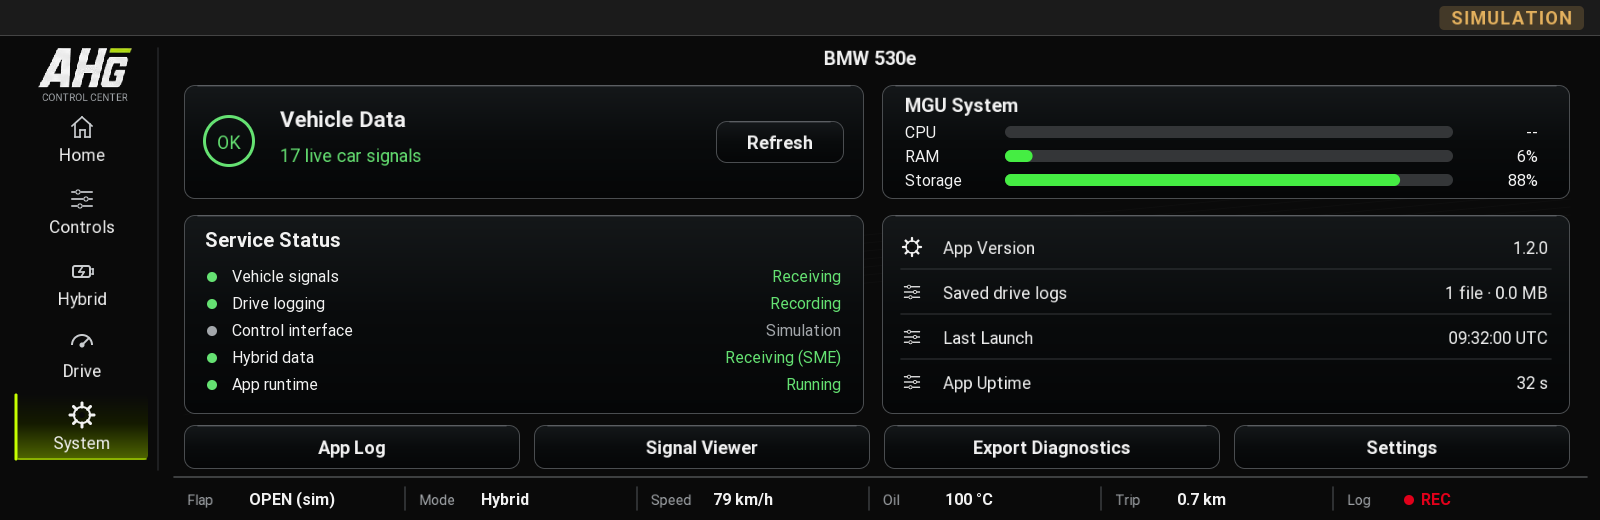
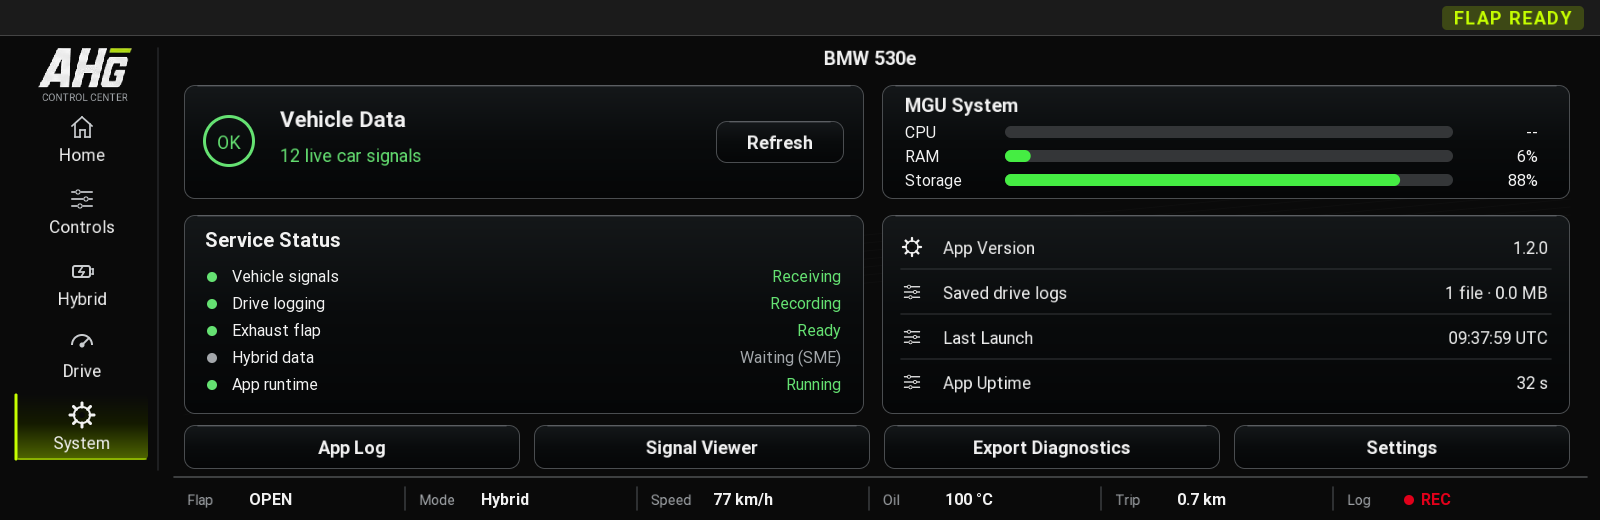
Car build always ready: no Arm button or demo mode on the head unit
- Controls arm themselves at startup (read-only DME detection), retry by themselves
- Hiding the app keeps the flap state; quitting hands back to the DME
- Demo data and simulation hidden on the car; simulation is the desktop emulator
- ASD/start-stop switches replaced by Hold Flap Position (default on) and Close Guard
- Tests: 46 passing

Claude-Session: https://claude.ai/code/session_01Nnadr2wnsB46edB4HiEaQo

diff --git a/apps/ahg_control_center/reference-view.js b/apps/ahg_control_center/reference-view.js
@@ -37,7 +37,7 @@ function header(cv,a){
     cv.line(174,477,1587,477,1,'#717477');
     const flap=a.controls.getState('exhaust'),log=logState(a);
     const entries=[
-        ['Flap',flap.source==='simulation'?(flap.actual||'--')+' (sim)':!a.controls.armed?'Not armed':flap.readback||'Unknown'],
+        ['Flap',flap.source==='simulation'?(flap.actual||'--')+' (sim)':!a.controls.ready?'Not detected':flap.readback||'Auto'],
         ['Mode',field(a,'drive_mode')],
         ['Speed',withUnit(a,'speed',0,'km/h')],
         ['Oil',withUnit(a,'oil',0,'°C')],
@@ -98,7 +98,7 @@ function smoke(cv,ox,oy,dir,reach,amt,ts,seed){
     }
 }
 function controls(cv,a,dt){
-    const control=a.controls,sim=control.simulated,flap=control.getState('exhaust'),asd=control.getState('asd'),ss=control.getState('startStop'),ambient=control.getState('ambientHardware');
+    const control=a.controls,sim=control.simulated,flap=control.getState('exhaust'),ambient=control.getState('ambientHardware');
     // Exhaust flap hero: the photo fills the right of a black card, controls sit on the dark left.
     cv.roundRect(184,85,1386,215,12,'#2f3337');cv.roundRect(185,86,1384,213,11,'#000000'); // photo edge is pure black: no seam
     Art.draw(cv,'exhaust',748,86,820,213); // pre-cropped to exactly this box (art/exhaust-crop.png)
@@ -115,28 +115,28 @@ function controls(cv,a,dt){
     smoke(cv,1343,236,-1,150,a.smoke.l,ts,0);smoke(cv,1431,236,0.45,70,a.smoke.r,ts,0.37);
     cv.line(198,86,1556,86,1,'#b3b8bd44');
     text(cv,'EXHAUST',212,122,13,C.muted);bold(cv,'Exhaust Flap',212,154,28);
-    chip(cv,sim?'SIMULATION':control.armed?'ARMED':'DISARMED',420,132,sim?C.amber:control.armed?C.red:'#9aa0a6');
+    const ready=sim||control.ready;chip(cv,sim?'SIMULATION':ready?'READY':control.busy?'DETECTING':'NOT DETECTED',420,132,sim?C.amber:ready?C.accent:C.amber);
     const modes=[['Auto','OEM'],['Open','OPEN'],['Closed','CLOSED']].map((s)=>({label:s[0],key:'flap-'+s[1],action:()=>a.control('exhaust',s[1]),
         selected:flap.desired===s[1]&&flap.acknowledged===true,pending:flap.desired===s[1]&&flap.pending}));
     segmented(cv,modes,212,178,540,54);
-    const flapLine=flap.error||(sim?'Simulation · flap '+(flap.actual==='OEM'?'auto':flap.actual?flap.actual.toLowerCase():'not set')+'. Choose Vehicle mode in Settings to drive the real flap.':
-        !control.armed?'Arm the session, then pick a mode.':flap.pending?'Sending request...':flap.acknowledged==null?'Armed - tap a mode or use the controller.':
+    const flapLine=flap.error||(sim?'Desktop simulation · flap '+(flap.actual==='OEM'?'auto':flap.actual?flap.actual.toLowerCase():'not set')+'. Nothing is sent to a car.':
+        !control.ready?(control.busy?'Looking for the exhaust flap on the DME...':'Waiting for the DME - starts by itself with the ignition on.'):flap.pending?'Sending...':flap.acknowledged==null?'Ready - tap a mode or use the controller.':
         'DME '+(flap.acknowledged?'accepted':'did not accept')+' · ECU read-back: '+(flap.readback||'Unknown'));
     wrap(flapLine,92,2).forEach((l,i)=>text(cv,l,212,259+i*19,15,flap.error?C.amber:'#c9cdd1'));
-    button(cv,sim?'Change mode':control.busy?'Detecting...':control.armed?'Disarm':'Arm session',1388,100,168,40,sim?()=>a.settings():()=>a.armControls(),'arm-session',control.armed);
-    if(!sim&&control.armed)button(cv,'Recheck',1388,148,168,40,()=>a.recheckControls(),'recheck-link');
-    // ASD + start-stop: only switchable in simulation; on a stock car they are shown as unavailable.
+    if(!sim&&!control.ready&&!control.busy)button(cv,'Retry',1388,100,168,40,()=>a.recheckControls(),'recheck-link');
+    // Hold + Close guard: real settings of the flap automation (ec_auto.js).
+    const hold=a.ctx.settings.get('hold')!=='off',limit=a.ctx.settings.get('closeLimit');
     card(cv,184,312,680,60);card(cv,882,312,688,60);
-    for(let i=0;i<7;i++){const h=[8,16,26,18,30,14,8][i];cv.line(212+i*6,342-h/2*0.8,212+i*6,342+h/2*0.8,3,C.text);}
-    bold(cv,'Active Sound',268,337,20);
-    text(cv,sim?'Simulation: '+(asd.actual?'On':'Off'):'Not available on stock software',268,361,14,C.muted);
-    toggle(cv,755,327,sim&&asd.actual,sim);if(sim)cv.target(744,314,100,56,()=>a.control('asd',!asd.desired),'asd-toggle',10);
-    cv.arc(925,342,15,18,0,360,C.text);bold(cv,'A',925,348,16,C.text,'center');bold(cv,'Start-Stop Memory',966,337,20);
-    text(cv,sim?'Simulation: '+(ss.actual?'Remember':'Off'):'Not available on stock software',966,361,14,C.muted);
-    toggle(cv,1467,327,sim&&ss.actual,sim);if(sim)cv.target(1456,314,100,56,()=>a.control('startStop',!ss.desired),'startstop-toggle',10);
+    cv.arc(225,342,13,16,40,320,C.text);cv.fill([[236,328],[245,336],[233,340]],C.text);
+    bold(cv,'Hold Flap Position',268,337,20);
+    text(cv,hold?'Re-sends Open / Closed every 15 s so the DME keeps it':'Off - the DME returns to auto after about 20 s',268,361,14,C.muted);
+    toggle(cv,755,327,hold,true);cv.target(744,314,100,56,()=>a.cycleSetting('hold'),'hold-toggle',10);
+    cv.arc(925,342,15,18,-120,120,C.text);cv.line(925,342,935,333,2,C.text);cv.circle(925,342,3,C.text);
+    bold(cv,'Close Guard',966,337,20);text(cv,'Closed hands back to auto above this engine speed',966,361,14,C.muted);
+    button(cv,limit+' rpm',1404,322,146,40,()=>a.cycleSetting('closeLimit'),'close-guard');
     // Ambient lighting: on the car the highlighted preset is the one the car confirmed.
     card(cv,184,383,1386,86);icon(cv,'system',208,411,29,C.text);bold(cv,'Ambient Lighting',258,418,21);
-    const ambientLine=sim?'Simulation · slot '+(ambient.actual||'--'):ambient.error?ambient.error:ambient.pending?'Sending slot '+ambient.desired+'...':ambient.actual?'Car reports slot '+ambient.actual:control.armed?'Waiting for car colour status':'Arm session to change colour';
+    const ambientLine=sim?'Simulation · slot '+(ambient.actual||'--'):ambient.error?ambient.error:ambient.pending?'Sending slot '+ambient.desired+'...':ambient.actual?'Car reports slot '+ambient.actual:'Waiting for car colour status';
     text(cv,fit(ambientLine,36),258,446,15,ambient.error?C.amber:C.muted);
     const swatch={comfort:C.blue,sport:C.red,night:'#a77be0',custom:'#e3b55c'};
     ['comfort','sport','night','custom'].forEach((p,i)=>{
@@ -240,7 +240,7 @@ function system(cv,a){
         bold(cv,'Service Status',205,247,20);
         const lst=logState(a);
         const rows=[['Vehicle signals',a.demo||a.emulator?'Demo':live?'Receiving':'Waiting',!!live],['Drive logging',lst.state==='rec'?'Recording':lst.state==='waiting'?'Ready':lst.state==='off'?'Off':'Error',lst.state==='rec'],
-            ['Control interface',a.controls.simulated?'Simulation':a.controls.armed?'Armed':'Disarmed',a.controls.armed],['Hybrid data',a.demo?'Demo':lv(a,'hv_soc')!=null||lv(a,'electric_kw')!=null?'Receiving (SME)':'Waiting (SME)',!a.demo&&(lv(a,'hv_soc')!=null||lv(a,'electric_kw')!=null)],['App runtime','Running',true]];
+            ['Exhaust flap',a.controls.simulated?'Simulation':a.controls.ready?'Ready':a.controls.busy?'Detecting':'Not detected',!a.controls.simulated&&a.controls.ready],['Hybrid data',a.demo?'Demo':lv(a,'hv_soc')!=null||lv(a,'electric_kw')!=null?'Receiving (SME)':'Waiting (SME)',!a.demo&&(lv(a,'hv_soc')!=null||lv(a,'electric_kw')!=null)],['App runtime','Running',true]];
         rows.forEach((r,i)=>{const y=282+i*27;cv.circle(212,y-5,5,r[2]?C.green:C.muted);text(cv,r[0],232,y,16,C.text);text(cv,r[1],841,y,16,r[2]?C.green:C.muted,'right');});
     }
     const storage=a.driveLog?a.driveLog.storage():{count:0,mb:0};

diff --git a/apps/ahg_control_center/controls.js b/apps/ahg_control_center/controls.js
@@ -21,8 +21,10 @@ class Controls {
     capabilities(){return {exhaust:this.simulated||this.ready,asd:this.simulated,startStop:this.simulated,ambientHardware:this.simulated||!!this.light};}
     async start(){
         this.mode=this.simulated?'simulation':'vehicle';this.reset();
-        // No diagnostic link or capability probe until a session Arm press.
         this.timer=setInterval(()=>{if(this.armed&&!this.busy)this.auto.tick().then(()=>this.sync()).catch((e)=>this.ctx.log.warn(String(e)));},250);
+        // In the car the controls are always ready: arm at startup. Arming only detects the DME (read-only
+        // 0x22 probes) and subscribes the colour status; nothing is commanded until a mode is pressed.
+        if(!this.simulated)await this.arm().catch((e)=>this.ctx.log.warn('auto-arm: '+String(e.message||e)));
     }
     enqueue(fn){const p=this.queue.then(fn);this.queue=p.catch(()=>{});return p;}
     watchLink(){
@@ -31,7 +33,7 @@ class Controls {
         this.watchedLink=link;
         link.onAvailable((on)=>{
             if(!this.armed||this.stopped||link!==this.controller.link)return;
-            if(!on){this.ready=false;this.detectionError='Diagnostic link offline; select a mode again after reconnect';this.auto._stop();this.auto.desired='OEM';this.auto.sent='OEM';this.auto.source='start';this.auto.paused=false;this.sync();return;}
+            if(!on){this.ready=false;this.detectionError='Diagnostic link lost - pick the mode again once it is back';this.auto._stop();this.auto.desired='OEM';this.auto.sent='OEM';this.auto.source='start';this.auto.paused=false;this.sync();return;}
             // Re-detection is read-only. Never replay an earlier Open/Close on reconnect.
             this.enqueue(async()=>{if(this.armed&&!this.stopped){await this.detect();this.sync();}}).catch((e)=>this.ctx.log.warn('DME reconnect: '+String(e)));
         });
@@ -45,7 +47,7 @@ class Controls {
             this.ready=this.controller.real&&!this.controller.blocked&&this.controller.link.available!==false;
             const active=this.controller.link;
             this.detectionError=this.ready?null:active&&active.available===false?
-                'Diagnostic link unavailable; use Recheck after ignition is ready':this.controller.pickReason||'No compatible MG1 flap detected';
+                'Diagnostic link not up yet - connects by itself with the ignition on':this.controller.pickReason||'No compatible MG1 flap detected';
             this.ctx.log.info('AHG flap detection: '+(this.ready?'ready':this.detectionError));
         }catch(e){this.ready=false;this.detectionError='DME detection failed: '+String(e.message||e);this.states.exhaust.error=this.detectionError;throw e;}
         finally{this.busy=false;}
@@ -61,14 +63,17 @@ class Controls {
         s.readback=v.confirmed==='UNKNOWN'?null:v.confirmed;s.actual=null;s.source='vehicle';
         const note=this.auto.note();s.error=this.detectionError||(!this.ready?this.controller.pickReason||'Flap not ready':null)||v.error||(note&&note.warn?note.text:null)||(v.accepted===false?'DME rejected or did not answer; see app logs':null);
     }
-    async arm(){return this.enqueue(async()=>{
+    arm(){return this.enqueue(()=>this._arm());}
+    async _arm(){
         if(this.stopped)throw new Error('Controls stopped');
-        if(this.simulated)throw new Error('Choose vehicle control mode and turn demo off on the car to arm');
+        if(this.simulated)throw new Error('Simulation runs on the desktop emulator only');
         if(this.armed)return;
         this.busy=true;
         try{
             this.mode='vehicle';this.reset();this.armed=true;
-            await this.detect();
+            // A DME that isn't reachable yet (ignition, TASU starting) is not an error here: detection runs again
+            // when the link comes up and on the next press. The controls stay armed.
+            try{await this.detect();}catch(e){this.ctx.log.warn('DME detection: '+String(e.message||e));}
             this.auto.desired='OEM';this.auto.sent='OEM';
             if(!this.sub){
                 this.sub=await this.ctx.signals.watch(LIGHT,'1',{statusAmbientLightInteriorColour:(v)=>{
@@ -81,8 +86,8 @@ class Controls {
                 this.light=this.sub.proxy||null;
             }
             this.sync();
-        }catch(e){this.armed=false;throw e;}finally{this.busy=false;}
-    });}
+        }catch(e){this.ctx.log.warn('arm: '+String(e.message||e));}finally{this.busy=false;}
+    }
     async disarm(){return this.enqueue(async()=>{
         this.generation++;clearTimeout(this.colourTimer);this.auto._stop();
         try{if(this.armed&&this.ready){await this.auto.press('OEM');this.sync();}}
@@ -95,7 +100,7 @@ class Controls {
     });}
     async settingsChanged(key){
         if(key==='controlMode'||key==='demo'){
-            await this.disarm();this.mode=this.simulated?'simulation':'vehicle';this.reset();
+            await this.disarm();this.mode=this.simulated?'simulation':'vehicle';this.reset();if(!this.simulated)await this.arm();
         }else if(key==='hold'||key==='closeLimit')await this.auto.settingsChanged(key);
     }
     async request(id,desired){return this.enqueue(async()=>{
@@ -113,7 +118,7 @@ class Controls {
         if(id==='asd'||id==='startStop'){
             s.supported=false;s.error=id==='asd'?'Stock ASD write unavailable; Engine Config ASD requires bootmod3':'No verified stock start-stop memory write in the referenced SDK';throw new Error(s.error);
         }
-        if(!this.armed){s.error='Arm vehicle controls for this session first';throw new Error(s.error);}
+        if(!this.armed)await this._arm();
         if(id==='exhaust'){
             if(!this.ready){await this.detect();if(!this.ready){s.error=this.detectionError;throw new Error(s.error);}}
             s.pending=true;await this.auto.press(desired);this.sync();return this.getState(id);

diff --git a/apps/ahg_control_center/main.js b/apps/ahg_control_center/main.js
@@ -21,8 +21,8 @@ function start(ctx) {
     const NAMES={exhaust:'Exhaust flap',asd:'Active Sound',startStop:'Start-stop memory',ambientHardware:'Ambient slot'};
     const said=(v)=>v===true?'on':v===false?'off':v==='OEM'?'auto':String(v).toLowerCase();
     app.control=(id,value)=>app.controls.request(id,value).then((s)=>app.notice(s.source==='simulation'?'Simulation: '+NAMES[id]+' '+said(value):s.error||NAMES[id]+' '+said(value)+' sent - waiting for ECU read-back')).catch((e)=>app.notice(e.message));
-    app.armControls=()=>{const p=app.controls.armed?app.controls.disarm():app.controls.arm();p.then(()=>app.notice(app.controls.armed?'Session armed; press a control to send':'Disarmed; OEM hand-back requested')).catch((e)=>app.notice(e.message));};
-    app.recheckControls=()=>app.controls.recheck().then((ready)=>app.notice(ready?'MG1 flap ready; select Open/Closed/OEM':app.controls.detectionError)).catch((e)=>app.notice(e.message));
+    app.recheckControls=()=>app.controls.recheck().then((ready)=>app.notice(ready?'Exhaust flap ready':app.controls.detectionError)).catch((e)=>app.notice(e.message));
+    app.cycleSetting=(key)=>{const it=(ctx.spec.settings||[]).find((x)=>x.key===key);if(!it)return;const list=it.options.map((o)=>o[0]);ctx.settings.set(key,list[(list.indexOf(ctx.settings.get(key))+1)%list.length]);};
     app.navigate=(i)=>{app.page=M.clamp(i,0,IDS.length-1);ctx.settings.set('page',IDS[app.page]);};
     // Only remember the preset once the colour request went through (or simulation accepted it).
     app.setProfile=(p)=>{const slot=Number(ctx.settings.get('slot_'+p))||1;
@@ -51,7 +51,8 @@ function start(ctx) {
         if(key==='logHz')sampler();if(key==='page')app.page=Math.max(0,IDS.indexOf(ctx.settings.get('page')));app.controls.settingsChanged(key).catch((e)=>app.notice(e.message));});
     ctx.ui.onClick('BTN_PAGE',()=>app.navigate((app.page+1)%IDS.length));ctx.ui.onClick('BTN_PREV',()=>app.navigate((app.page+IDS.length-1)%IDS.length));
     ctx.onTab((i)=>app.navigate(i));
-    if(ctx.ui.onVisible)ctx.ui.onVisible((name,on)=>{if(name==='MAIN'&&app.provider){app.provider.setVisible(on);if(!on)app.controls.disarm().catch((e)=>app.notice(e.message));}});
+    // Hiding the app (navigation, a call) keeps the flap where you put it; only quitting hands it back to the DME.
+    if(ctx.ui.onVisible)ctx.ui.onVisible((name,on)=>{if(name==='MAIN'&&app.provider)app.provider.setVisible(on);});
     provider();
     app.controls.start();
     // Trip and logging run on timers, not the draw loop, so they keep going
@@ -65,7 +66,7 @@ function start(ctx) {
     const loop=ctx.loop('MAIN',4,async()=>{
         const now=Date.now(),dt=M.clamp((now-previous)/1000,0,0.5);previous=now;app.elapsed=(now-app.diagnostics.started)/1000;
         T.setAccent(ctx.settings.get('accent'));const cv=ctx.canvas(1600,520);cv.clear(T.C.bg);
-        G.frame(cv,T.kitTheme(KIT_RED),[],-1,[{text:app.controls.simulated?'SIMULATION':app.controls.armed?'ARMED':'DISARMED',color:app.controls.armed?T.C.red:T.C.amber}]);
+        G.frame(cv,T.kitTheme(KIT_RED),[],-1,[{text:app.controls.simulated?'SIMULATION':app.controls.ready?'FLAP READY':app.controls.busy?'CONNECTING':'NO FLAP',color:app.controls.simulated?T.C.amber:app.controls.ready?T.C.accent:T.C.amber}]);
         V.draw(cv,app,dt);await ctx.ui.image('MAIN_GFX',cv);
     });
     const stop=async()=>{if(app.hybrid)app.hybrid.stop();clearInterval(logTimer);clearInterval(tripTimer);app.driveLog.stop();app.provider.stop();loop.stop();app.gauges.clear();await app.controls.stop();};

diff --git a/test/render.test.js b/test/render.test.js
@@ -19,13 +19,13 @@ const spec=require('../apps/ahg_control_center/app.json');
 const values=spec.settings.reduce((o,s)=>{o[s.key]=s.default;return o;},{});
 function fixture(demo){const store=new M.SignalStore();if(demo)new MockProvider(store,10).sample(2);
     return {store,demo,emulator:true,page:0,elapsed:2,systemMode:'overview',signalOffset:0,trip:new Trip(),gauges:new Gauge(),ctx:{settings:{get:(k)=>values[k]}},
-        controls:{simulated:true,armed:false,getState:(id)=>({source:'simulation',actual:null})},control:()=>{},armControls:()=>{},
+        controls:{simulated:true,armed:false,ready:false,getState:(id)=>({source:'simulation',actual:null})},control:()=>{},armControls:()=>{},
         diagnostics:{started:Date.now(),entries:['DEMO provider'],update:()=>({cpu:10,ram:40,storage:30})},accent:()=> '#d51e28',navigate:()=>{},setProfile:()=>{},refresh:()=>{},resetTrip:()=>{},toggleDisplay:()=>{},settings:()=>{},exportReport:()=>{}};}
 for(const demo of [true,false])for(let page=0;page<5;page++)test('SDK records page '+page+' / '+(demo?'demo':'no data')+' with safe input targets',()=>{
     const state=fixture(demo);state.page=page;const cv=new Recorder(1600,520);V.draw(cv,state,1/60);
     assert.ok(cv.words().length>100);assert.ok(cv.words().byteLength<200000);
     for(const t of cv.targets){assert.ok(t.x>=12&&t.y>=38&&t.x+t.w<=1588&&t.y+t.h<=477,JSON.stringify(t));}
-    if(page===1){['flap-OPEN','flap-OEM','flap-CLOSED','asd-toggle','startstop-toggle','arm-session'].forEach((key)=>assert.ok(cv.targets.some((t)=>t.key===key),key));}state.gauges.clear();
+    if(page===1){['flap-OPEN','flap-OEM','flap-CLOSED','hold-toggle','close-guard'].forEach((key)=>assert.ok(cv.targets.some((t)=>t.key===key),key));}state.gauges.clear();
 });
 test('gauge caches static geometry, clamps the needle and removes it for stale data',()=>{
     const g=new Gauge(),spec=M.DEFINITIONS.oil,cv=new Recorder(1600,520),r={value:900,quality:'live',source:'mgu'};
@@ -37,7 +37,7 @@ test('gauge caches static geometry, clamps the needle and removes it for stale d
     g.draw(cv,'oil',spec,Object.assign({},r,{quality:'stale'}),300,250,170,0.1);assert.equal(g.needle.oil,undefined);g.clear();
 });
 test('vehicle controls expose a recheck action and retain a readable blocked reason',()=>{
-    const state=fixture(false);state.page=1;state.controls.simulated=false;state.controls.armed=true;
+    const state=fixture(false);state.page=1;state.controls.simulated=false;state.controls.armed=true;state.controls.ready=false;
     state.controls.getState=(id)=>({source:'vehicle',actual:null,error:id==='exhaust'?'Diagnostic link unavailable':null});
     state.recheckControls=()=>{};
     const cv=new Recorder(1600,520);V.draw(cv,state,1/60);

diff --git a/test/controls.test.js b/test/controls.test.js
@@ -13,16 +13,21 @@ function fixture(opts){
     control=new Controls(ctx,store,{controller,emulator:!!opts.emulator,demo:()=>!!opts.demo});
     return {control,controller,commands,writes,values,store,availability:(on)=>{link.available=on;listeners.forEach((fn)=>fn(on));},status:(n)=>watcher.statusAmbientLightInteriorColour({statusMenuAmbientePanoramicRoofInteriorLighting:'FARBAUSWAHL_'+n}),advance:(ms)=>{now+=ms;}};
 }
-test('startup sends no probes or commands; vehicle writes require session arming',async()=>{
-    const f=fixture();await f.control.start();assert.equal(f.controller.link,null);
-    await assert.rejects(f.control.request('exhaust','OPEN'),/Arm/);assert.deepEqual(f.commands,[]);await f.control.stop();
+test('in the car the controls arm themselves at startup: read-only detection, no command until a press',async()=>{
+    const f=fixture();await f.control.start();assert.equal(f.control.armed,true);assert.equal(f.control.ready,true);assert.deepEqual(f.commands,[]);
+    const s=await f.control.request('exhaust','OPEN');assert.equal(s.acknowledged,true);assert.deepEqual(f.commands,['OPEN']);await f.control.stop();
+    assert.equal(f.commands[f.commands.length-1],'OEM','quitting hands the flap back to the DME');
+});
+test('a DME that is not reachable at startup keeps the controls armed and is detected later',async()=>{
+    const f=fixture({offline:true});await f.control.start();assert.equal(f.control.armed,true);assert.equal(f.control.ready,false);
+    f.availability(true);await f.control.queue;assert.equal(f.control.ready,true);assert.deepEqual(f.commands,[]);await f.control.stop();
 });
 test('emulator and demo force simulated controls even when vehicle mode is selected',async()=>{
     for(const opts of [{emulator:true},{demo:true}]){const f=fixture(opts);await f.control.start();
         for(const [id,value] of [['exhaust','OPEN'],['asd',true],['startStop',true],['ambientHardware',4]]){
             const s=await f.control.request(id,value);assert.equal(s.source,'simulation');assert.equal(s.actual,value);
         }
-        assert.deepEqual(f.commands,[]);assert.deepEqual(f.writes,[]);await assert.rejects(f.control.arm(),/Choose vehicle/);await f.control.stop();
+        assert.deepEqual(f.commands,[]);assert.deepEqual(f.writes,[]);await assert.rejects(f.control.arm(),/desktop emulator/);await f.control.stop();
     }
 });
 test('armed stock flap preserves acceptance versus unknown physical state and OEM disarm',async()=>{

diff --git a/README.md b/README.md
@@ -2,7 +2,7 @@
 
 Native BMW MGU / iDrive 7 dashboard built with the existing [idrive7-apps kit](https://github.com/cauliflowermossgrape/idrive7-apps). Uses the kit's Node 8 runtime, native graphics, touch targets and iDrive focus; no browser or WebView on the car.
 
-**Version 1.2.0 adds drive logging, a real-data Drive page and a UI cleanup.** Control testing (from 1.1.x) is unchanged: Stock MG1 exhaust flap and ambient colour slots have real providers behind a session Arm button. Every switch works in simulation; stock ASD and start-stop memory have no verified vehicle provider. See [control testing](docs/CONTROL_TESTING.md) and [capabilities](docs/CAPABILITIES.md). Physical vehicle validation is pending. This app does not flash firmware, enable SSH or obtain SSH keys. The separate Windows installer is a different project.
+**Version 1.2.0: always-ready controls, live hybrid data, drive logging and After Hours Garage branding.** In the car the stock MG1 exhaust flap and ambient colour slots are ready from startup (no Arm button, no demo data). Simulation runs on the desktop emulator only. See [control testing](docs/CONTROL_TESTING.md) and [capabilities](docs/CAPABILITIES.md). Physical vehicle validation is pending. This app does not flash firmware, enable SSH or obtain SSH keys. The separate Windows installer is a different project.
 
 ![Home with live car signals](screenshots/01-home.png)
 
@@ -36,7 +36,7 @@ npm run package
 - **Home:** four live gauges. Defaults are RPM, oil, coolant and speed, the signals the car actually provides. Boost and 12 V can still be picked but are demo-only.
 - **Drive:** live speed/RPM/oil/coolant tiles, this drive's distance, time and maximums, and the last three saved drives. In demo mode this page shows the Hybrid mock-up instead.
 - **Drive logging:** live readings are written to `data/drive-logs/drive-*.csv` (1, 2 or 5 samples/s). It runs while other screens are shown, keeps the newest 20 files (20 MB cap each), and saves a summary when you press *Save & New Drive* or 10 minutes after live data stops.
-- **Controls:** Engine Config MG1 Open/Closed/OEM with a session Arm, fresh-RPM close guard and OEM hand-back. Ambient colour slots: the highlighted preset is the one the car confirms. ASD and start-stop show as unavailable on stock software instead of fake switches.
+- **Controls:** Engine Config MG1 Auto/Open/Closed, ready from startup (read-only DME detection; a mode is only sent when pressed). Hold Flap Position (default on) re-sends the mode every 15 s; Close Guard hands back to auto above the chosen rpm. The flap stays put while other screens are shown and is handed back to the DME when the app quits. Ambient colour slots: the highlighted preset is the one the car confirms.
 - **System:** live-signal count, logging state, saved log storage, a paged app log and signal viewer, and a diagnostics export.
 - Stale detection, unavailable states and bounded needle movement. Needle damping now follows real frame time, so needles keep up under the software renderer.
 - **Hybrid:** HV charge, electric power, recuperation, HV voltage/temperature, 12 V, derived drive source and trip energy. Sources come from idrive7-apps (see CAPABILITIES); battery identifiers are not yet confirmed on a G30 530e. **Boost** comes from the sport display. Vehicle fault status is not scanned.

diff --git a/docs/CAPABILITIES.md b/docs/CAPABILITIES.md
@@ -15,8 +15,8 @@ The owner's later request enables control testing, superseding the original read
 | 12 V voltage | DME 22 F442 (or OBD 01 42, IBS 402B/5853, EGS 0x18) | Read-only, every 5 s |
 | Drive source, charging, trip energy, electric share | Derived from engine speed, battery power and speed | No EV range: no passive signal; upstream learns it from driving |
 | Fault status | No diagnostic scan | Always not scanned |
-| Exhaust flap | Engine Config MG1 adapter; InternalTasu, DME 0x12 | Session armed, compatible positive capability probe; stock support reported upstream on MG1/B48, not this exact car |
-| Ambient colour | ComfortFunctionIuK.ambientLightInteriorColour setter and statusAmbientLightInteriorColour read-back | Session armed, slot 1–12; other fields unfilled as upstream; colours vary |
+| Exhaust flap | Engine Config MG1 adapter; InternalTasu, DME 0x12 | Ready from startup after a read-only capability probe; stock support reported upstream on MG1/B48, not this exact car |
+| Ambient colour | ComfortFunctionIuK.ambientLightInteriorColour setter and statusAmbientLightInteriorColour read-back | Slot 1–12; other fields unfilled as upstream; colours vary |
 | ASD | Simulation only for stock car | Engine Config real ASD is bootmod3-specific |
 | Start-stop memory | Simulation only | No verified stock write found |
 | CPU / RAM | Node os module | Emulator reports host, car reports MGU |
@@ -32,6 +32,6 @@ Ambient config (`apps/ambient_config/ambient.js`) provides the request struct an
 
 The actual kit Recorder supports arcs, polygons, lines, gradients, font atlases and cached layers. The native renderer ignores nested layers, so photographic dial triangle geometry is inlined into each gauge face. Touch/controller targets use the kit's routing and focus system. The 1600×520 logical page maps to the actual MGU display and preserves native HMI areas/popups. Software fallback is slower.
 
-Vehicle requests are serialised. App startup creates no diagnostic link/probes. Arming performs detection and colour-status subscription; a control press is required for actuation. Session disarm attempts OEM return, stops holds, closes colour subscriptions and clears pending colour confirmation. Hide/shutdown disarms. New sessions never replay previous commands. Failure, unknown state and simulation remain distinct. No OEM SDK or native renderer binary is distributed; Store supplies an existing donor SDK.
+Vehicle requests are serialised. From 1.2.0 the car build arms itself at startup: it performs read-only DME detection and the colour-status subscription; a control press (or Hold re-sending the pressed mode) is required for actuation. Detection is retried when the diagnostic link comes up and on the next press. Hiding the app keeps the flap state; quitting attempts OEM hand-back. New sessions never replay previous commands. Failure, unknown state and simulation remain distinct. No OEM SDK or native renderer binary is distributed; Store supplies an existing donor SDK.
 
 In 1.1.1, CDS/Vehicle2/FES getters are polled every second. FES.statusFESVehicleDynamicSwitchHMI adds the real driving-mode name using the upstream enum mapping. Subscription shutdown stops polling. Delayed diagnostic availability triggers read-only DME re-detection; Recheck is available, and blocking reasons persist.

diff --git a/docs/RELEASE_NOTES.md b/docs/RELEASE_NOTES.md
@@ -15,7 +15,9 @@ AHG Control Center 1.2.0 - drive logging and UI cleanup.
 - After Hours Garage branding from the owner's identity package: primary logo on Home, AHG monogram in the side menu and as the app icon, matte black / off white palette.
 - New Accent colour setting: Neon Lime (brand, default), Sport Red, Ice Blue, Night Amber, Violet, Off White. Meaning colours (hot zones, ARMED, REC) stay fixed.
 - HV charge / 12 V no longer flicker to stale between their slower reads.
-- 45 automated checks, including drive-log CSV/summary tests.
+- Car build always ready: no Arm button, demo data or simulation switch on the head unit (simulation is the desktop emulator). Read-only DME detection at startup, retried by itself; nothing is sent until a mode is pressed. Hiding the app no longer hands the flap back; quitting does.
+- ASD / start-stop switches removed (never available on stock software). Their row is now Hold Flap Position (default on, reset once) and Close Guard (tap to change the rpm).
+- 46 automated checks, including drive-log CSV/summary tests.
 
 AHG Control Center 1.1.1 fixes control status, diagnostic reconnect and live-signal freshness problems found after the first physical-car test.
 

diff --git a/docs/CONTROL_TESTING.md b/docs/CONTROL_TESTING.md
@@ -1,3 +1,5 @@
+> **1.2.0:** there is no Arm button or demo mode in the car any more: the controls are ready from startup, Hold defaults On, and hiding the app keeps the flap state (quitting hands back to the DME). Simulation is the desktop emulator (`npm run emulator`). The steps below describe 1.1.x and are kept for reference.
+
 # Control testing — 1.1.0
 
 This build adds real stock-car exhaust and ambient-colour providers, using the pinned upstream code. It is emulator verified; the owner's physical G30 530e has not been tested. The earlier read-only brief described 1.0.0; the owner's later instruction authorizes these controls.
